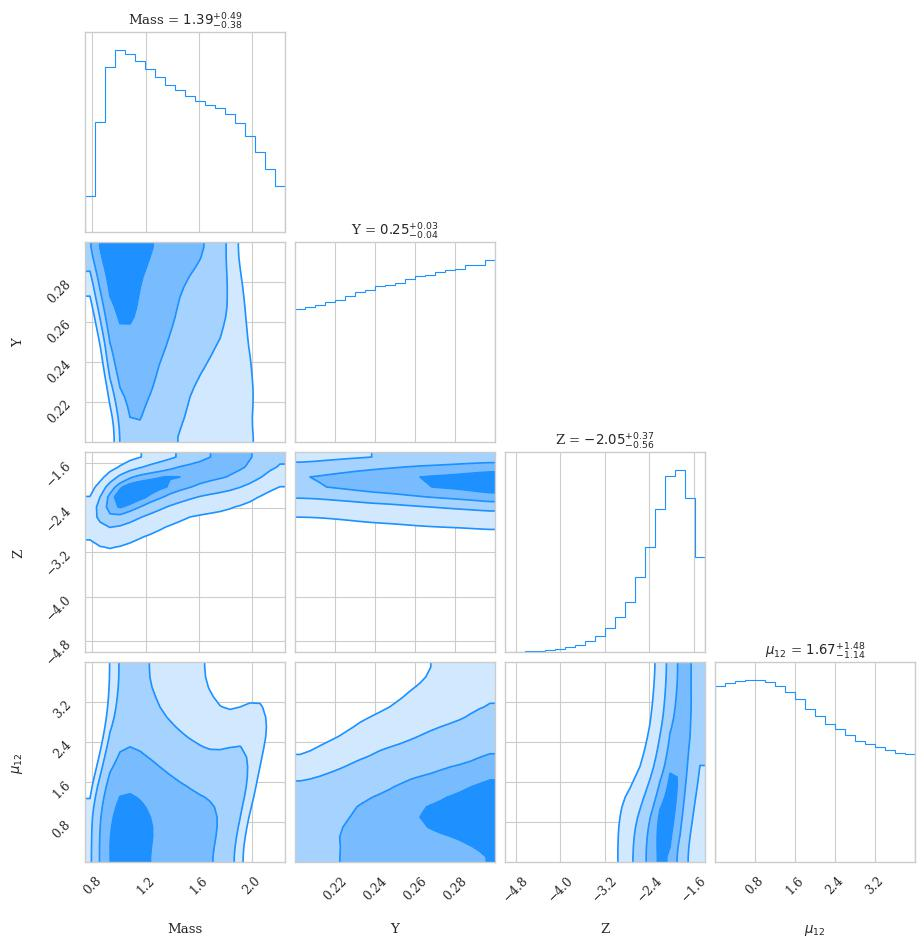
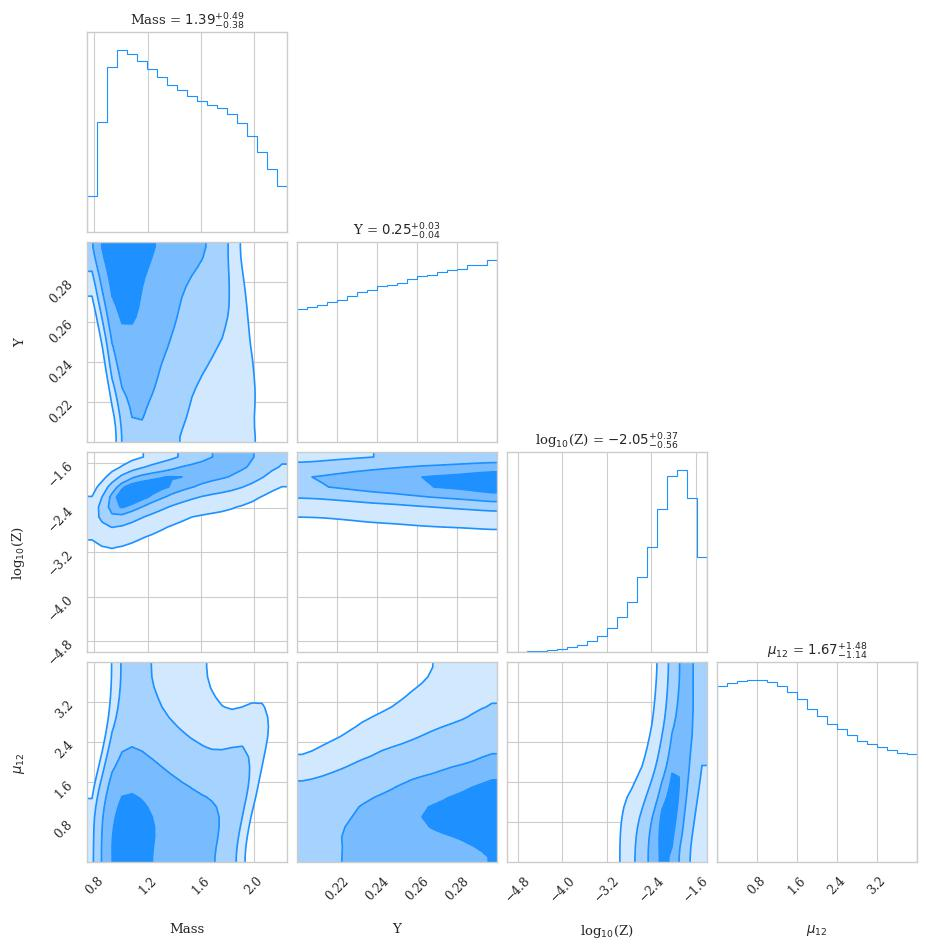
correct Z labels

diff --git a/mcmc/analyzeMCMC.py b/mcmc/analyzeMCMC.py
@@ -23,7 +23,7 @@ def plotCorner():
     chain[:, 2] = np.log10(chain[:, 2])
     
     fig = corner.corner(chain,
-                        labels=['Mass', 'Y', 'Z', r'$\mu_{12}$'],
+                        labels=['Mass', 'Y', r'log$_{10}$(Z)', r'$\mu_{12}$'],
                         show_titles=True,
                         color='dodgerblue',
                         smooth=True,
